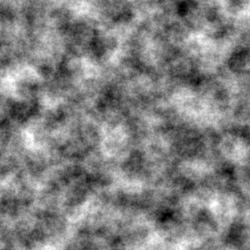
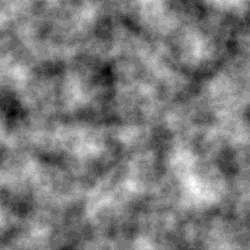
Working height map and colors from the vertex shader

diff --git a/a04_3d-terrain/.docs/report_notes.md b/a04_3d-terrain/.docs/report_notes.md
@@ -1,4 +1,7 @@
 # Notes
 
 ## 1. Geometry shader
-* The value of `gl_in[index].gl_Position` have already been modified by the view and projection matrix.  
+* The value of `gl_in[index].gl_Position` have already been modified by the view and projection matrix.
+
+## Terrain
+* Swap between two triangle orientations to make it more interesting
